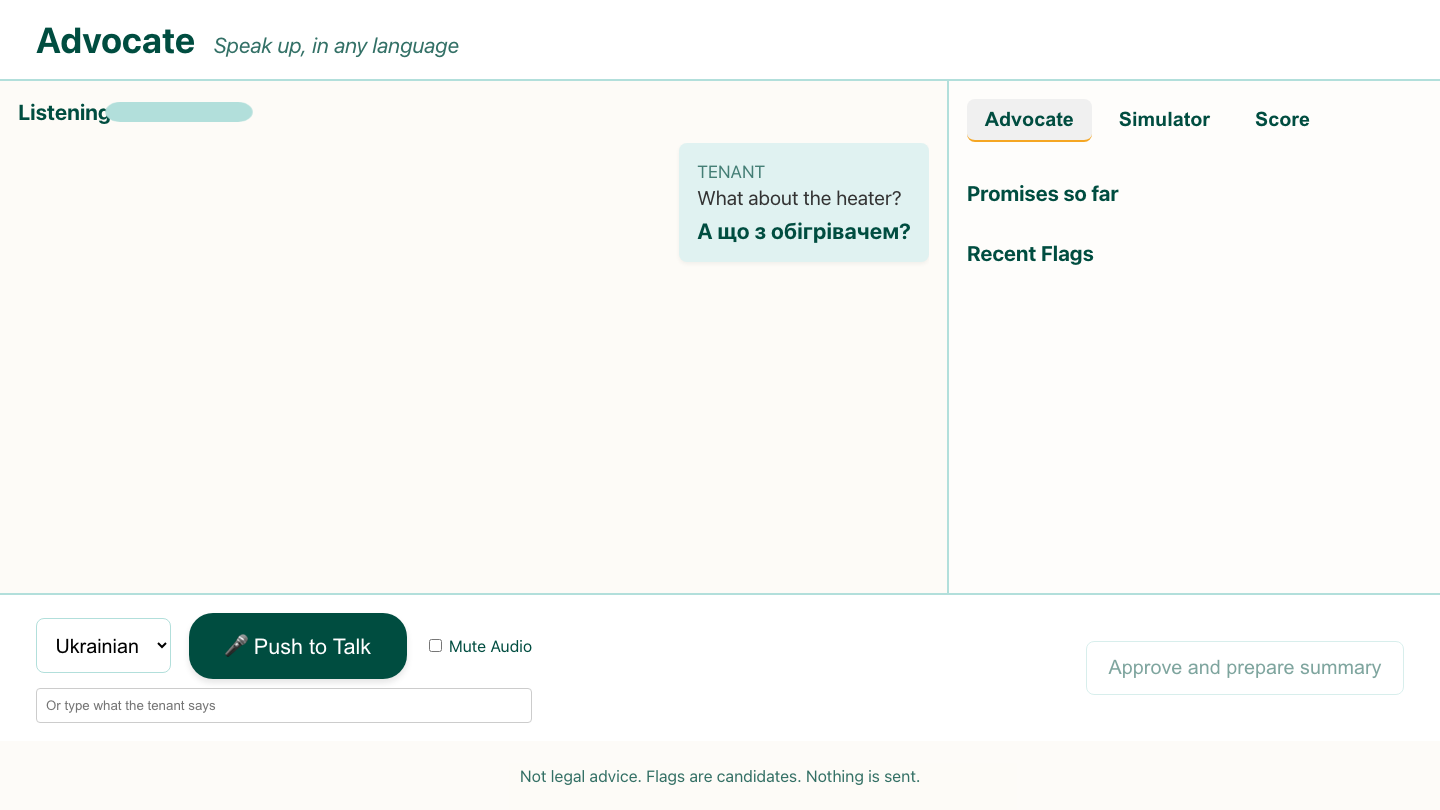
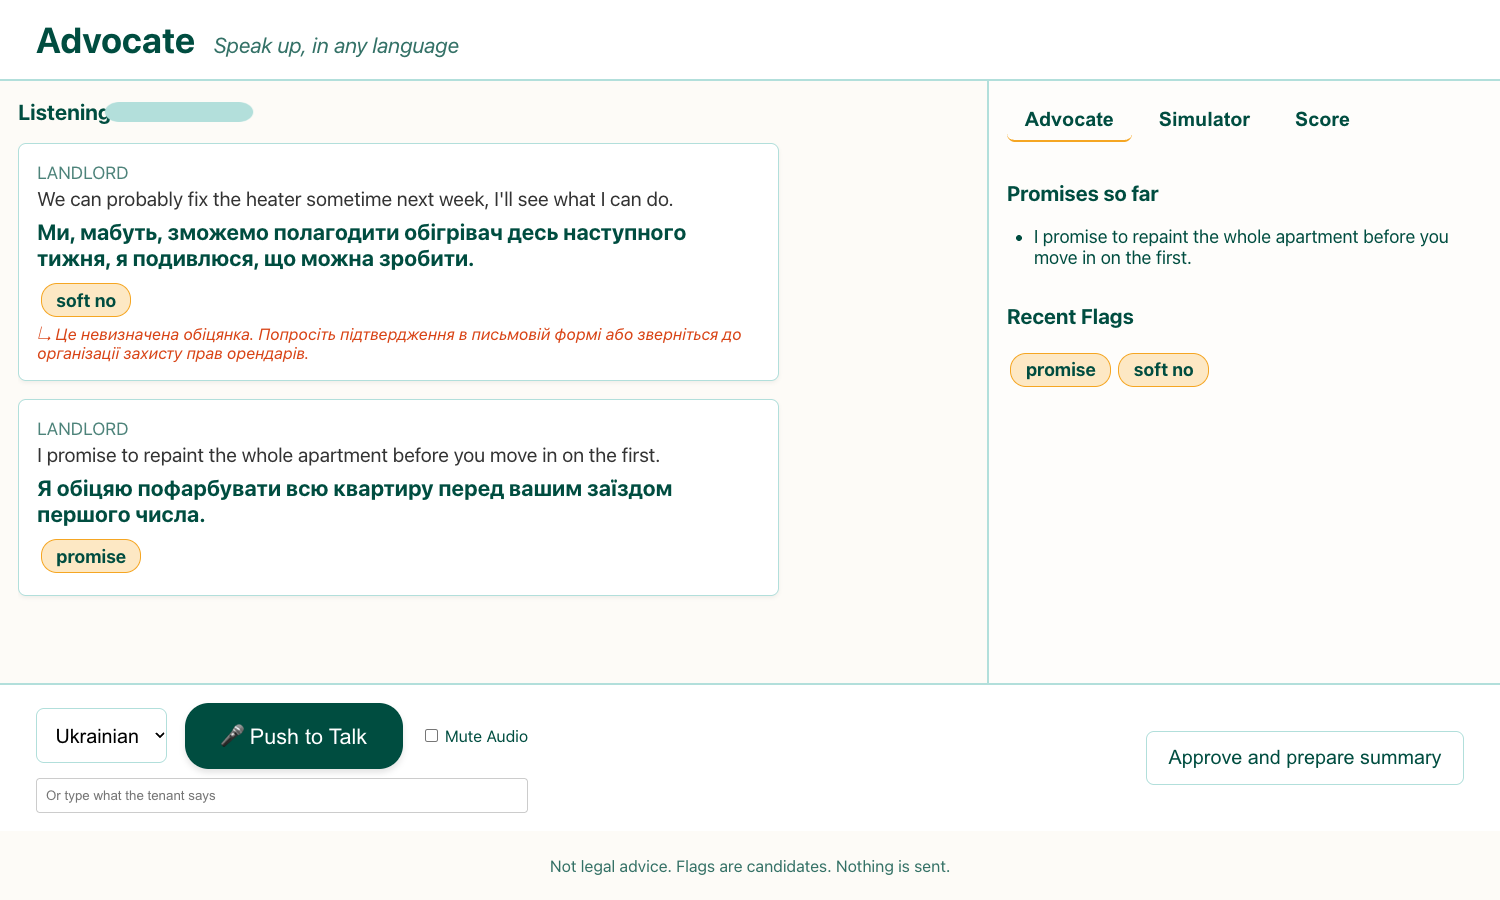
Fix simulator Play (JSON header), real-run screenshot

diff --git a/web/app.js b/web/app.js
@@ -479,8 +479,11 @@ document.addEventListener("DOMContentLoaded", () => {
         const _fetch2 = window.OriginalFetch || window.fetch;
         _fetch2(API_BASE + "/landlord/say", {
           method: "POST",
+          headers: { "Content-Type": "application/json" },
           body: JSON.stringify({ id: line.id, text: line.text })
-        });
+        }).then((r) => {
+          if (!r.ok) { btn.textContent = "\u25B6 Play"; btn.disabled = false; activePlayBtn = null; }
+        }).catch(() => { btn.textContent = "\u25B6 Play"; btn.disabled = false; activePlayBtn = null; });
       };
 
       div.appendChild(p);
